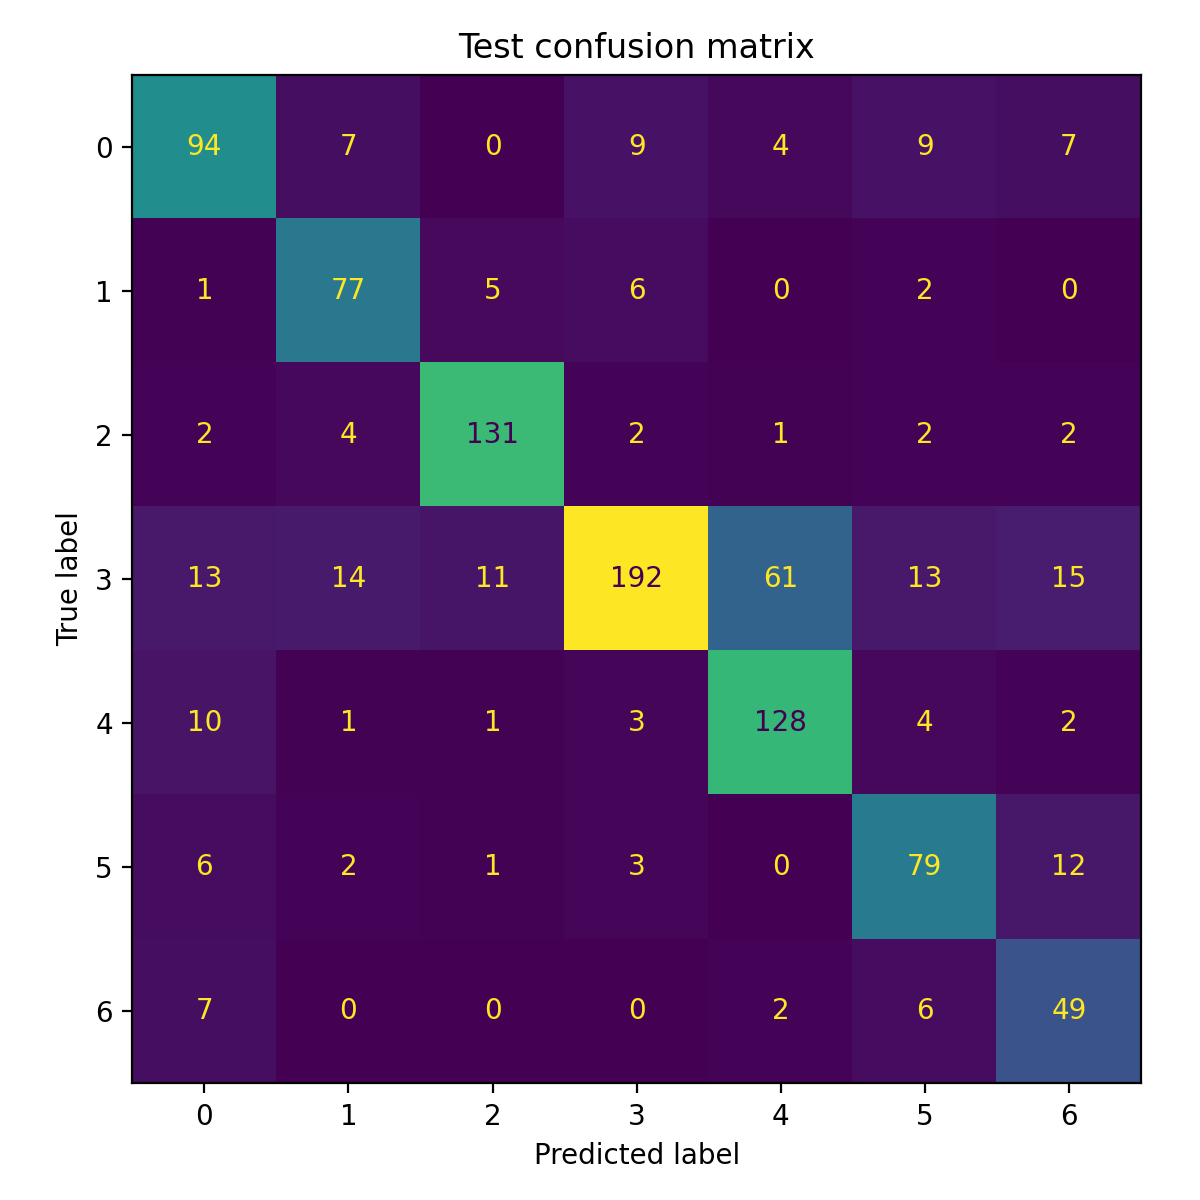
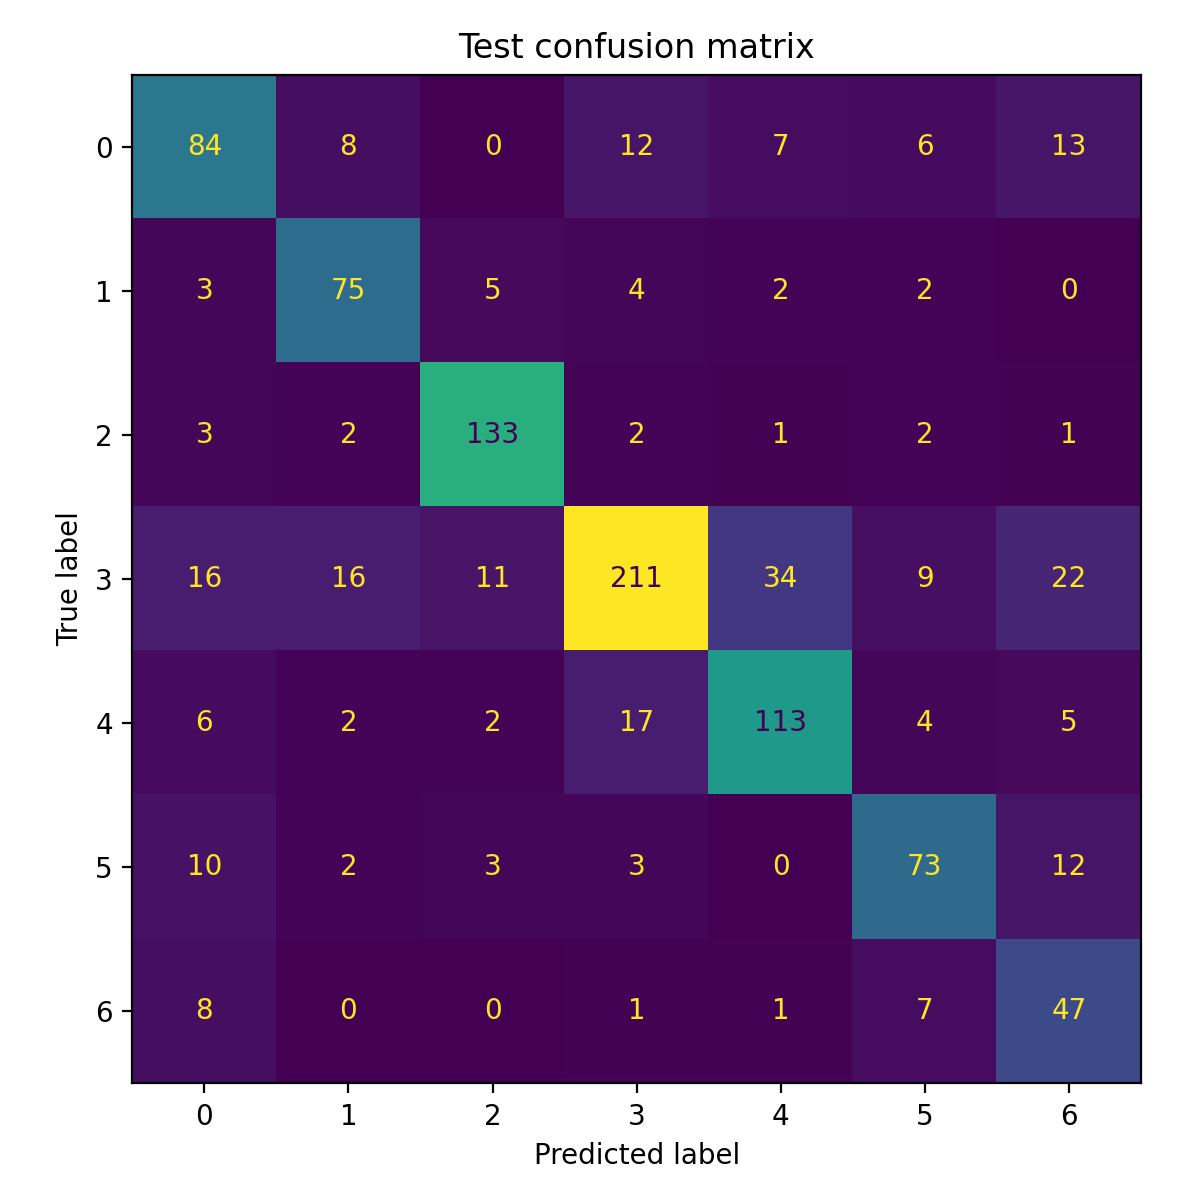
update

diff --git a/src/evaluation/post_training.py b/src/evaluation/post_training.py
@@ -131,10 +131,10 @@ def make_post_training_figures(
 
 
 if __name__ == "__main__":
-    checkpoint_path = "outputs/checkpoints/best-deepwalk-Citeseer-epoch=07-val_acc=0.6020.ckpt"
+    checkpoint_path = "outputs/checkpoints/best-deepwalk-Cora-epoch=13-val_acc=0.7520.ckpt"
     make_post_training_figures(
         checkpoint_path,
-        output_dir="outputs/figures/deepwalk/citeseer",
-        data="Citeseer",
+        output_dir="outputs/figures/deepwalk/cora",
+        data="Cora",
         model_name="deepwalk",
     )
